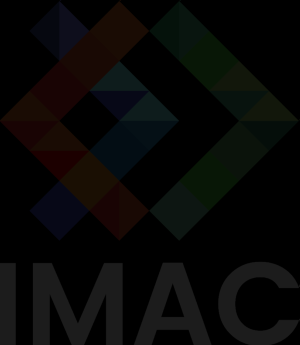
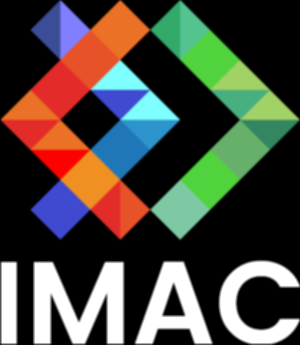
LA CONVOLUTION MAAAAARCHE !!!

diff --git a/src/main_lison.cpp b/src/main_lison.cpp
@@ -435,121 +435,124 @@ void main_lison()
 }
 
 //-------------------------------------------------------------------------------------
+//CECI SONT TOUTES LES TENTATIVES POUR LA CONVOLUTION
+// {
+//     //Exo 15 : Convolutions
+//     sil::Image image {"images/logo.png"};
+//     //float coeff {static_cast<float>(1/9)};
+//     for(int i {1}; i<image.width()-1; i++){
+//         for(int j {1}; j<image.height()-1; j++){
+//             // if(i==0 && j==0){
+//             //     //float color_px_debordant {coeff*5.f*0.f};
+//             //     image.pixel(i, j) = coeff*image.pixel(i, j);
+//             //     image.pixel(i, j) += coeff*image.pixel(i, j+1)+coeff*image.pixel(i+1, j+1)+coeff*image.pixel(i+1, j); //+ (glm::vec3(color_px_debordant));
+//             // }
+//             // else if(i==0 && j==image.height()-1){
+//             //     //float color_px_debordant {coeff*5.f*0.f};
+//             //     image.pixel(i, j) = coeff*image.pixel(i, j);
+//             //     image.pixel(i, j) += coeff*image.pixel(i, j-1)+coeff*image.pixel(i+1, j-1)+coeff*image.pixel(i+1, j); //+ (glm::vec3(color_px_debordant));
+//             // }
+//             // else if(i==image.width()-1 && j==0){
+//             //     //float color_px_debordant {coeff*5.f*0.f};
+//             //     image.pixel(i, j) = coeff*image.pixel(i, j);
+//             //     image.pixel(i, j) += coeff*image.pixel(i, j+1)+coeff*image.pixel(i-1, j+1)+coeff*image.pixel(i-1, j); //+ (glm::vec3(color_px_debordant));
+//             // }
+//             // else if(i==image.width()-1 && j==image.height()-1){
+//             //     //float color_px_debordant {coeff*5.f*0.f};
+//             //     image.pixel(i, j) = coeff*image.pixel(i, j);
+//             //     image.pixel(i, j) += coeff*image.pixel(i, j-1)+coeff*image.pixel(i-1, j-1)+coeff*image.pixel(i-1, j); //+ (glm::vec3(color_px_debordant));
+//             // }
+//             // else if((i>=1 && j>=1) && (i<=image.width()-2 && j<=image.height()-2)){
+//             //     image.pixel(i, j) = coeff*image.pixel(i, j);
+//             //     image.pixel(i, j) += coeff*image.pixel(i, j-1)+coeff*image.pixel(i-1, j-1)+coeff*image.pixel(i-1, j)+coeff*image.pixel(i-1, j+1)+coeff*image.pixel(i, j+1)+coeff*image.pixel(i+1, j+1)+coeff*image.pixel(i+1, j)+coeff*image.pixel(i+1, j-1);
+//             // }
 
-{
-    //Exo 15 : Convolutions
-    sil::Image image {"images/logo.png"};
-    //float coeff {static_cast<float>(1/9)};
-    for(int i {1}; i<image.width()-1; i++){
-        for(int j {1}; j<image.height()-1; j++){
-            // if(i==0 && j==0){
-            //     //float color_px_debordant {coeff*5.f*0.f};
-            //     image.pixel(i, j) = coeff*image.pixel(i, j);
-            //     image.pixel(i, j) += coeff*image.pixel(i, j+1)+coeff*image.pixel(i+1, j+1)+coeff*image.pixel(i+1, j); //+ (glm::vec3(color_px_debordant));
-            // }
-            // else if(i==0 && j==image.height()-1){
-            //     //float color_px_debordant {coeff*5.f*0.f};
-            //     image.pixel(i, j) = coeff*image.pixel(i, j);
-            //     image.pixel(i, j) += coeff*image.pixel(i, j-1)+coeff*image.pixel(i+1, j-1)+coeff*image.pixel(i+1, j); //+ (glm::vec3(color_px_debordant));
-            // }
-            // else if(i==image.width()-1 && j==0){
-            //     //float color_px_debordant {coeff*5.f*0.f};
-            //     image.pixel(i, j) = coeff*image.pixel(i, j);
-            //     image.pixel(i, j) += coeff*image.pixel(i, j+1)+coeff*image.pixel(i-1, j+1)+coeff*image.pixel(i-1, j); //+ (glm::vec3(color_px_debordant));
-            // }
-            // else if(i==image.width()-1 && j==image.height()-1){
-            //     //float color_px_debordant {coeff*5.f*0.f};
-            //     image.pixel(i, j) = coeff*image.pixel(i, j);
-            //     image.pixel(i, j) += coeff*image.pixel(i, j-1)+coeff*image.pixel(i-1, j-1)+coeff*image.pixel(i-1, j); //+ (glm::vec3(color_px_debordant));
-            // }
-            // else if((i>=1 && j>=1) && (i<=image.width()-2 && j<=image.height()-2)){
-            //     image.pixel(i, j) = coeff*image.pixel(i, j);
-            //     image.pixel(i, j) += coeff*image.pixel(i, j-1)+coeff*image.pixel(i-1, j-1)+coeff*image.pixel(i-1, j)+coeff*image.pixel(i-1, j+1)+coeff*image.pixel(i, j+1)+coeff*image.pixel(i+1, j+1)+coeff*image.pixel(i+1, j)+coeff*image.pixel(i+1, j-1);
-            // }
-
-            //image.pixel(i, j) = image.pixel(i, j);
-            image.pixel(i, j) = (image.pixel(i, j)+image.pixel(i, j-1)+image.pixel(i-1, j-1)+image.pixel(i-1, j)+image.pixel(i-1, j+1)+image.pixel(i, j+1)+image.pixel(i+1, j+1)+image.pixel(i+1, j)+image.pixel(i+1, j-1))/glm::vec3(8);
-        }
-    }
-    image.save("output_l/convolution_petite.png");
+//             //image.pixel(i, j) = image.pixel(i, j);
+//             image.pixel(i, j) = (image.pixel(i, j)+image.pixel(i, j-1)+image.pixel(i-1, j-1)+image.pixel(i-1, j)+image.pixel(i-1, j+1)+image.pixel(i, j+1)+image.pixel(i+1, j+1)+image.pixel(i+1, j)+image.pixel(i+1, j-1))/glm::vec3(8);
+//         }
+//     }
+//     image.save("output_l/convolution_petite.png");
 
 
-    sil::Image image2 {"images/logo.png"};
-    for(int i {1}; i<image.width()-1; i++){
-        for(int j {1}; j<image.height()-1; j++){
-            if((i>=2 && i<image.width()-2) && (j>=2 && j<image.height()-2)){
-                glm::vec3 color1 = (image.pixel(i, j)+image.pixel(i, j-1)+image.pixel(i-1, j-1)+image.pixel(i-1, j)+image.pixel(i-1, j+1)+image.pixel(i, j+1)+image.pixel(i+1, j+1)+image.pixel(i+1, j)+image.pixel(i+1, j-1));
-                glm::vec3 color2 = image.pixel(i-2, j-2)+image.pixel(i-2, j-1)+image.pixel(i-2, j)+image.pixel(i-2, j+1)+image.pixel(i-2, j+2);
-                glm::vec3 color3 = image.pixel(i-1, j-2)+image.pixel(i-1, j+2);
-                glm::vec3 color4 = image.pixel(i, j-2)+image.pixel(i, j+2);
-                glm::vec3 color5 = image.pixel(i+1, j-2)+image.pixel(i+1, j+2);
-                glm::vec3 color6 = image.pixel(i+2, j-2)+image.pixel(i+2, j-1)+image.pixel(i+2, j)+image.pixel(i+2, j+1)+image.pixel(i+2, j+2);
-                image.pixel(i, j) = (color1+color2+color3+color4+color5+color6)/glm::vec3(9+5+2+2+2+5);
-            }
-            else if((i==1)&&(j==1)){
-                glm::vec3 color1 = (image.pixel(i, j)+image.pixel(i, j-1)+image.pixel(i-1, j-1)+image.pixel(i-1, j)+image.pixel(i-1, j+1)+image.pixel(i, j+1)+image.pixel(i+1, j+1)+image.pixel(i+1, j)+image.pixel(i+1, j-1));
-                glm::vec3 color2 = glm::vec3(5.f*0.f);
-                glm::vec3 color3 = glm::vec3(0.f)+image.pixel(i-1, j+2);
-                glm::vec3 color4 = glm::vec3(0.f)+image.pixel(i, j+2);
-                glm::vec3 color5 = glm::vec3(0.f)+image.pixel(i+1, j+2);
-                glm::vec3 color6 = glm::vec3(0.f)+image.pixel(i+2, j-1)+image.pixel(i+2, j)+image.pixel(i+2, j+1)+image.pixel(i+2, j+2);
-                image.pixel(i, j) = (color1+color2+color3+color4+color5+color6)/glm::vec3(9+5+2+2+2+5);
-            }
-            else if(i==1 && j==image.height()-2){
-                glm::vec3 color1 = (image.pixel(i, j)+image.pixel(i, j-1)+image.pixel(i-1, j-1)+image.pixel(i-1, j)+image.pixel(i-1, j+1)+image.pixel(i, j+1)+image.pixel(i+1, j+1)+image.pixel(i+1, j)+image.pixel(i+1, j-1));
-                glm::vec3 color2 = glm::vec3(5.f*0.f);
-                glm::vec3 color3 = image.pixel(i-1, j-2)+glm::vec3(0.f);
-                glm::vec3 color4 = image.pixel(i, j-2)+glm::vec3(0.f);
-                glm::vec3 color5 = image.pixel(i+1, j-2)+glm::vec3(0.f);
-                glm::vec3 color6 = image.pixel(i+2, j-2)+image.pixel(i+2, j-1)+image.pixel(i+2, j)+image.pixel(i+2, j+1)+glm::vec3(0.f);
-                image.pixel(i, j) = (color1+color2+color3+color4+color5+color6)/glm::vec3(9+5+2+2+2+5);
-            }
-            else if(i==image.width()-2 && j==1){
-                glm::vec3 color1 = (image.pixel(i, j)+image.pixel(i, j-1)+image.pixel(i-1, j-1)+image.pixel(i-1, j)+image.pixel(i-1, j+1)+image.pixel(i, j+1)+image.pixel(i+1, j+1)+image.pixel(i+1, j)+image.pixel(i+1, j-1));
-                glm::vec3 color2 = glm::vec3(0.f)+image.pixel(i-2, j-1)+image.pixel(i-2, j)+image.pixel(i-2, j+1)+image.pixel(i-2, j+2);
-                glm::vec3 color3 = glm::vec3(0.f)+image.pixel(i-1, j+2);
-                glm::vec3 color4 = glm::vec3(0.f)+image.pixel(i, j+2);
-                glm::vec3 color5 = glm::vec3(0.f)+image.pixel(i+1, j+2);
-                glm::vec3 color6 = glm::vec3(5.f*0.f);
-                image.pixel(i, j) = (color1+color2+color3+color4+color5+color6)/glm::vec3(9+5+2+2+2+5);
-            }
-            else if(i==image.width()-2 && j==image.height()-2){
-                glm::vec3 color1 = (image.pixel(i, j)+image.pixel(i, j-1)+image.pixel(i-1, j-1)+image.pixel(i-1, j)+image.pixel(i-1, j+1)+image.pixel(i, j+1)+image.pixel(i+1, j+1)+image.pixel(i+1, j)+image.pixel(i+1, j-1));
-                glm::vec3 color2 = image.pixel(i-2, j-2)+image.pixel(i-2, j-1)+image.pixel(i-2, j)+image.pixel(i-2, j+1)+glm::vec3(0.f);
-                glm::vec3 color3 = image.pixel(i-1, j-2)+glm::vec3(0.f);
-                glm::vec3 color4 = image.pixel(i, j-2)+glm::vec3(0.f);
-                glm::vec3 color5 = image.pixel(i+1, j-2)+glm::vec3(0.f);
-                glm::vec3 color6 = glm::vec3(5.f*0.f);
-                image.pixel(i, j) = (color1+color2+color3+color4+color5+color6)/glm::vec3(9+5+2+2+2+5);
-            }
-        }
-    }
-    image.save("output_l/convolution_moyenne.png");
-}
+//     sil::Image image2 {"images/logo.png"};
+//     for(int i {1}; i<image.width()-1; i++){
+//         for(int j {1}; j<image.height()-1; j++){
+//             if((i>=2 && i<image.width()-2) && (j>=2 && j<image.height()-2)){
+//                 glm::vec3 color1 = (image.pixel(i, j)+image.pixel(i, j-1)+image.pixel(i-1, j-1)+image.pixel(i-1, j)+image.pixel(i-1, j+1)+image.pixel(i, j+1)+image.pixel(i+1, j+1)+image.pixel(i+1, j)+image.pixel(i+1, j-1));
+//                 glm::vec3 color2 = image.pixel(i-2, j-2)+image.pixel(i-2, j-1)+image.pixel(i-2, j)+image.pixel(i-2, j+1)+image.pixel(i-2, j+2);
+//                 glm::vec3 color3 = image.pixel(i-1, j-2)+image.pixel(i-1, j+2);
+//                 glm::vec3 color4 = image.pixel(i, j-2)+image.pixel(i, j+2);
+//                 glm::vec3 color5 = image.pixel(i+1, j-2)+image.pixel(i+1, j+2);
+//                 glm::vec3 color6 = image.pixel(i+2, j-2)+image.pixel(i+2, j-1)+image.pixel(i+2, j)+image.pixel(i+2, j+1)+image.pixel(i+2, j+2);
+//                 image.pixel(i, j) = (color1+color2+color3+color4+color5+color6)/glm::vec3(9+5+2+2+2+5);
+//             }
+//             else if((i==1)&&(j==1)){
+//                 glm::vec3 color1 = (image.pixel(i, j)+image.pixel(i, j-1)+image.pixel(i-1, j-1)+image.pixel(i-1, j)+image.pixel(i-1, j+1)+image.pixel(i, j+1)+image.pixel(i+1, j+1)+image.pixel(i+1, j)+image.pixel(i+1, j-1));
+//                 glm::vec3 color2 = glm::vec3(5.f*0.f);
+//                 glm::vec3 color3 = glm::vec3(0.f)+image.pixel(i-1, j+2);
+//                 glm::vec3 color4 = glm::vec3(0.f)+image.pixel(i, j+2);
+//                 glm::vec3 color5 = glm::vec3(0.f)+image.pixel(i+1, j+2);
+//                 glm::vec3 color6 = glm::vec3(0.f)+image.pixel(i+2, j-1)+image.pixel(i+2, j)+image.pixel(i+2, j+1)+image.pixel(i+2, j+2);
+//                 image.pixel(i, j) = (color1+color2+color3+color4+color5+color6)/glm::vec3(9+5+2+2+2+5);
+//             }
+//             else if(i==1 && j==image.height()-2){
+//                 glm::vec3 color1 = (image.pixel(i, j)+image.pixel(i, j-1)+image.pixel(i-1, j-1)+image.pixel(i-1, j)+image.pixel(i-1, j+1)+image.pixel(i, j+1)+image.pixel(i+1, j+1)+image.pixel(i+1, j)+image.pixel(i+1, j-1));
+//                 glm::vec3 color2 = glm::vec3(5.f*0.f);
+//                 glm::vec3 color3 = image.pixel(i-1, j-2)+glm::vec3(0.f);
+//                 glm::vec3 color4 = image.pixel(i, j-2)+glm::vec3(0.f);
+//                 glm::vec3 color5 = image.pixel(i+1, j-2)+glm::vec3(0.f);
+//                 glm::vec3 color6 = image.pixel(i+2, j-2)+image.pixel(i+2, j-1)+image.pixel(i+2, j)+image.pixel(i+2, j+1)+glm::vec3(0.f);
+//                 image.pixel(i, j) = (color1+color2+color3+color4+color5+color6)/glm::vec3(9+5+2+2+2+5);
+//             }
+//             else if(i==image.width()-2 && j==1){
+//                 glm::vec3 color1 = (image.pixel(i, j)+image.pixel(i, j-1)+image.pixel(i-1, j-1)+image.pixel(i-1, j)+image.pixel(i-1, j+1)+image.pixel(i, j+1)+image.pixel(i+1, j+1)+image.pixel(i+1, j)+image.pixel(i+1, j-1));
+//                 glm::vec3 color2 = glm::vec3(0.f)+image.pixel(i-2, j-1)+image.pixel(i-2, j)+image.pixel(i-2, j+1)+image.pixel(i-2, j+2);
+//                 glm::vec3 color3 = glm::vec3(0.f)+image.pixel(i-1, j+2);
+//                 glm::vec3 color4 = glm::vec3(0.f)+image.pixel(i, j+2);
+//                 glm::vec3 color5 = glm::vec3(0.f)+image.pixel(i+1, j+2);
+//                 glm::vec3 color6 = glm::vec3(5.f*0.f);
+//                 image.pixel(i, j) = (color1+color2+color3+color4+color5+color6)/glm::vec3(9+5+2+2+2+5);
+//             }
+//             else if(i==image.width()-2 && j==image.height()-2){
+//                 glm::vec3 color1 = (image.pixel(i, j)+image.pixel(i, j-1)+image.pixel(i-1, j-1)+image.pixel(i-1, j)+image.pixel(i-1, j+1)+image.pixel(i, j+1)+image.pixel(i+1, j+1)+image.pixel(i+1, j)+image.pixel(i+1, j-1));
+//                 glm::vec3 color2 = image.pixel(i-2, j-2)+image.pixel(i-2, j-1)+image.pixel(i-2, j)+image.pixel(i-2, j+1)+glm::vec3(0.f);
+//                 glm::vec3 color3 = image.pixel(i-1, j-2)+glm::vec3(0.f);
+//                 glm::vec3 color4 = image.pixel(i, j-2)+glm::vec3(0.f);
+//                 glm::vec3 color5 = image.pixel(i+1, j-2)+glm::vec3(0.f);
+//                 glm::vec3 color6 = glm::vec3(5.f*0.f);
+//                 image.pixel(i, j) = (color1+color2+color3+color4+color5+color6)/glm::vec3(9+5+2+2+2+5);
+//             }
+//         }
+//     }
+//     image.save("output_l/convolution_moyenne.png");
+// }
 
-{
-    //Avec autres boucles
-    sil::Image image {"images/logo.png"};
-    for(int x {0}; x<image.width(); x++){
-        for(int y {0}; y<image.height(); y++){
-            int i {0}, j {0};
-            int iter {0};
-            if((x>=6 && x<image.width()-6) && (y>=6 && y<image.height()-6)){
-                for(i; i<6; i++){
-                    for(j; j<6; j++){
-                        image.pixel(x, y) += image.pixel(x+i, y+j)+image.pixel(x-i, y-j);
-                        iter+=2;
-                    }
-                }
-                image.pixel(x, y) /= glm::vec3(iter);
-            }
+// {
+//     //Avec autres boucles
+//     sil::Image image {"images/logo.png"};
+//     for(int x {0}; x<image.width(); x++){
+//         for(int y {0}; y<image.height(); y++){
+//             int i {0}, j {0};
+//             int iter {0};
+//             if((x>=6 && x<image.width()-6) && (y>=6 && y<image.height()-6)){
+//                 for(i; i<6; i++){
+//                     for(j; j<6; j++){
+//                         image.pixel(x, y) += image.pixel(x+i, y+j)+image.pixel(x-i, y-j);
+//                         iter+=2;
+//                     }
+//                 }
+//                 image.pixel(x, y) /= glm::vec3(iter);
+//             }
             
-        }
-    }
-    image.save("output_l/convolution_boucles.png");
-}
+//         }
+//     }
+//     image.save("output_l/convolution_boucles.png");
+//}
+
+
+
 {
-    //Avec matrices -> le vrai, normalement
+    //Exo Convolution
     sil::Image logo {"images/logo.png"};
     sil::Image image {logo};
     std::vector<std::vector<float>> kernel {
@@ -567,18 +570,19 @@ void main_lison()
     // }
     int coordx {0};
     int coordy {0};
+    
     for(int x {0}; x<image.width(); x++){
         for(int y {0}; y<image.height(); y++){
             glm::vec3 couleur {0};
             for(int i {-(static_cast<int>(kernel.size())/2)}; i<(static_cast<int>(kernel.size())); i++){
                 for(int j {-(static_cast<int>(kernel.size())/2)}; j<(static_cast<int>(kernel[0].size())); j++){
                     coordx = x+i;
-                    coordy = y+i;
+                    coordy = y+j;
                     if(coordx>0 && coordx<image.width() && coordy>0 && coordy<image.height() && j+static_cast<int>(kernel[0].size())/2<kernel[0].size() && i+static_cast<int>(kernel.size())/2<kernel.size()){ //
-                        couleur = logo.pixel(coordx, coordy)*kernel[i+static_cast<int>(kernel.size())/2][j+static_cast<int>(kernel[0].size())/2];   //+static_cast<int>(kernel.size())/2    //+static_cast<int>(kernel[0].size())/2
+                        couleur += logo.pixel(coordx, coordy)*kernel[i+static_cast<int>(kernel.size())/2][j+static_cast<int>(kernel[0].size())/2];   //+static_cast<int>(kernel.size())/2    //+static_cast<int>(kernel[0].size())/2
                     }
                     else {
-                        image.pixel(x, y) += glm::vec3(0); 
+                        couleur += glm::vec3(0);   //image.pixel(x, y)
                     }
                 }
             }
@@ -591,62 +595,117 @@ void main_lison()
     image.save("output_l/convolution.png");
 }
 
-//Tentative avec différentes matrices : 
-
 {
     std::vector<std::vector<float>> matrix_emboss {
         {-2.f, -1.f, 0.f},
         {-1.f, 1.f, 1.f},
         {0.f, 1.f, 2.f}
     };
+
+    sil::Image logo {"images/logo.png"};
+    sil::Image image {logo};
+    int Total{0};
+    int coordx {0};
+    int coordy {0};
+
+    //ICI POUR LE EMBOSS
+    
+    for(int x {0}; x<image.width(); x++){
+        for(int y {0}; y<image.height(); y++){
+            glm::vec3 couleur {0};
+            for(int i {-(static_cast<int>(matrix_emboss.size())/2)}; i<(static_cast<int>(matrix_emboss.size())); i++){
+                for(int j {-(static_cast<int>(matrix_emboss.size())/2)}; j<(static_cast<int>(matrix_emboss[0].size())); j++){
+                    coordx = x+i;
+                    coordy = y+j;
+                    if(coordx>0 && coordx<image.width() && coordy>0 && coordy<image.height() && j+static_cast<int>(matrix_emboss[0].size())/2<matrix_emboss[0].size() && i+static_cast<int>(matrix_emboss.size())/2<matrix_emboss.size()){ //
+                        couleur += logo.pixel(coordx, coordy)*matrix_emboss[i+static_cast<int>(matrix_emboss.size())/2][j+static_cast<int>(matrix_emboss[0].size())/2];   //+static_cast<int>(kernel.size())/2    //+static_cast<int>(kernel[0].size())/2
+                    }
+                    else {
+                        couleur += glm::vec3(0);   //image.pixel(x, y)
+                    }
+                }
+            }
+            // if(Total!=0){
+            //     couleur=couleur/Total;
+            // }
+            image.pixel(x, y) = couleur;
+        }
+    }
+    image.save("output_l/emboss.png");
+}
+
+{  //ICI POUR LE OUTLINE
     std::vector<std::vector<float>> matrix_outline {
         {-1.f, -1.f, -1.f},
         {-1.f, 8.f, -1.f},
         {-1.f, -1.f, -1.f}
     };
-    std::vector<std::vector<int>> matrix_sharpen {
-        {0, -1, 0},
-        {-1, 5, -1},
-        {0, -1, 0}
+
+    sil::Image logo {"images/logo.png"};
+    sil::Image image {logo};
+    int Total{0};
+    int coordx {0};
+    int coordy {0};
+
+    for(int x {0}; x<image.width(); x++){
+        for(int y {0}; y<image.height(); y++){
+            glm::vec3 couleur {0};
+            for(int i {-(static_cast<int>(matrix_outline.size())/2)}; i<(static_cast<int>(matrix_outline.size())); i++){
+                for(int j {-(static_cast<int>(matrix_outline.size())/2)}; j<(static_cast<int>(matrix_outline[0].size())); j++){
+                    coordx = x+i;
+                    coordy = y+j;
+                    if(coordx>0 && coordx<image.width() && coordy>0 && coordy<image.height() && j+static_cast<int>(matrix_outline[0].size())/2<matrix_outline[0].size() && i+static_cast<int>(matrix_outline.size())/2<matrix_outline.size()){ //
+                        couleur += logo.pixel(coordx, coordy)*matrix_outline[i+static_cast<int>(matrix_outline.size())/2][j+static_cast<int>(matrix_outline[0].size())/2];   //+static_cast<int>(kernel.size())/2    //+static_cast<int>(kernel[0].size())/2
+                    }
+                    else {
+                        couleur += glm::vec3(0);   //image.pixel(x, y)
+                    }
+                }
+            }
+            // if(Total!=0){
+            //     couleur=couleur/Total;
+            // }
+            image.pixel(x, y) = couleur;
+        }
+    }
+    image.save("output_l/outline.png");
+}
+
+{  //ICI POUR LE SHARPEN
+    std::vector<std::vector<float>> matrix_sharpen {
+        {0.f, -1.f, 0.f},
+        {-1.f, 5.f, -1.f},
+        {0.f, -1.f, 0.f}
     };
 
     sil::Image logo {"images/logo.png"};
     sil::Image image {logo};
     int Total{0};
-    for (std::vector<int> line : matrix_sharpen)
-    {
-        for (int nb : line)
-        {
-            Total += nb;
-        }
-    }
-    for(int i {0}; i<matrix_sharpen.size(); i++){
-        
-    }
     int coordx {0};
     int coordy {0};
+
     for(int x {0}; x<image.width(); x++){
         for(int y {0}; y<image.height(); y++){
             glm::vec3 couleur {0};
             for(int i {-(static_cast<int>(matrix_sharpen.size())/2)}; i<(static_cast<int>(matrix_sharpen.size())); i++){
                 for(int j {-(static_cast<int>(matrix_sharpen.size())/2)}; j<(static_cast<int>(matrix_sharpen[0].size())); j++){
                     coordx = x+i;
-                    coordy = y+i;
+                    coordy = y+j;
                     if(coordx>0 && coordx<image.width() && coordy>0 && coordy<image.height() && j+static_cast<int>(matrix_sharpen[0].size())/2<matrix_sharpen[0].size() && i+static_cast<int>(matrix_sharpen.size())/2<matrix_sharpen.size()){ //
-                        couleur = image.pixel(coordx, coordy)*static_cast<float>(matrix_sharpen[i+static_cast<int>(matrix_sharpen.size())/2 ][j+static_cast<int>(matrix_sharpen[0].size())/2]);   //+static_cast<int>(kernel.size())/2    //+static_cast<int>(kernel[0].size())/2
+                        couleur += logo.pixel(coordx, coordy)*matrix_sharpen[i+static_cast<int>(matrix_sharpen.size())/2][j+static_cast<int>(matrix_sharpen[0].size())/2];   //+static_cast<int>(kernel.size())/2    //+static_cast<int>(kernel[0].size())/2
                     }
                     else {
-                        image.pixel(x, y) += glm::vec3(0); 
+                        couleur += glm::vec3(0);   //image.pixel(x, y)
                     }
                 }
             }
-            if(Total!=0){
-                couleur=couleur/static_cast<float>(Total);
-            }
+            // if(Total!=0){
+            //     couleur=couleur/Total;
+            // }
             image.pixel(x, y) = couleur;
         }
     }
-    image.save("output_l/sharpen_essai.png");
+    image.save("output_l/sharpen.png");
 }
 
 }
